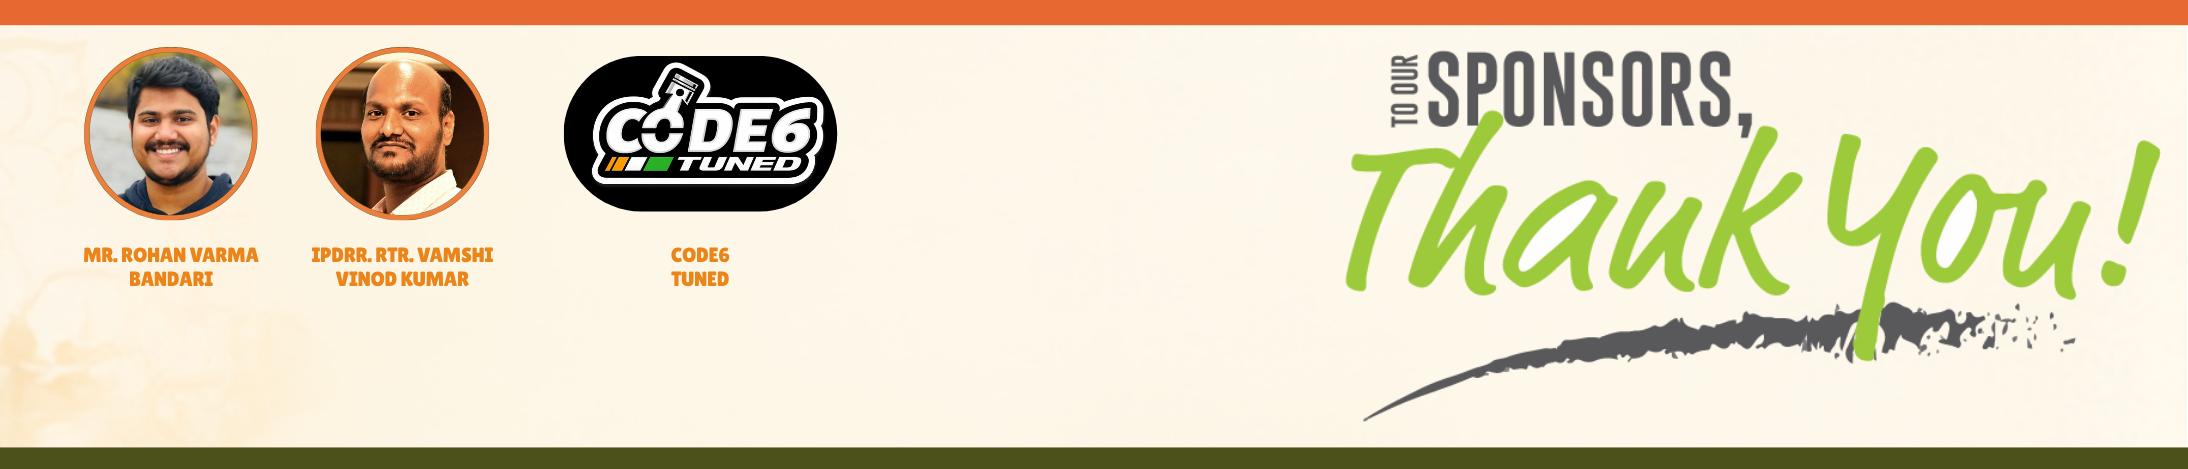
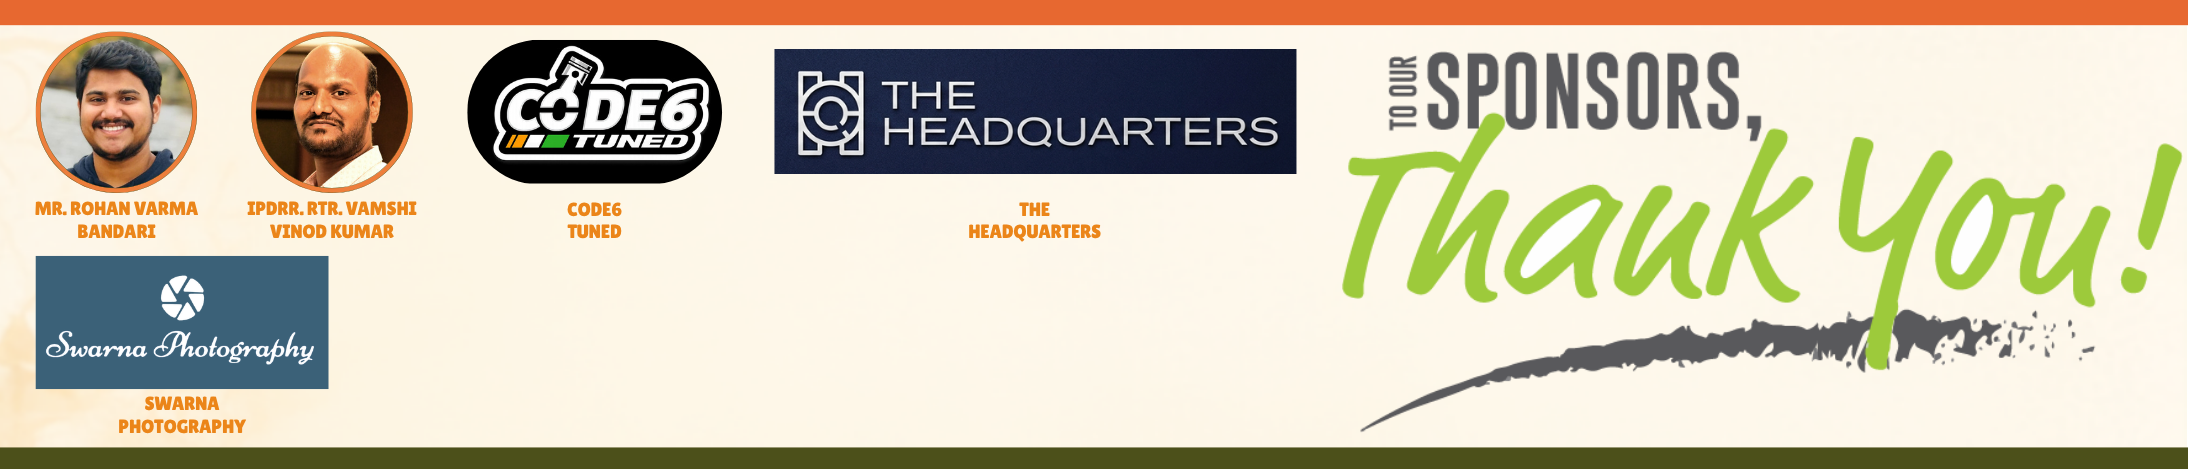
updating sponsors

Changed region(s): [[0.0, 0.0597, 1.0, 0.9254], [0.4351, 0.4179, 0.5283, 0.5075], [0.3108, 0.5075, 0.3419, 0.6269]]

diff --git a/ohmyfrndganesha.html b/ohmyfrndganesha.html
@@ -158,14 +158,14 @@
             "
           />
 
-          <!-- <img 
+          <img 
             src="GFP/sponsors.png"
             alt="sponsors"
             style="
               width:100%;
               display:block;
             "
-          /> -->
+          />
         </div>
 
       </div>
